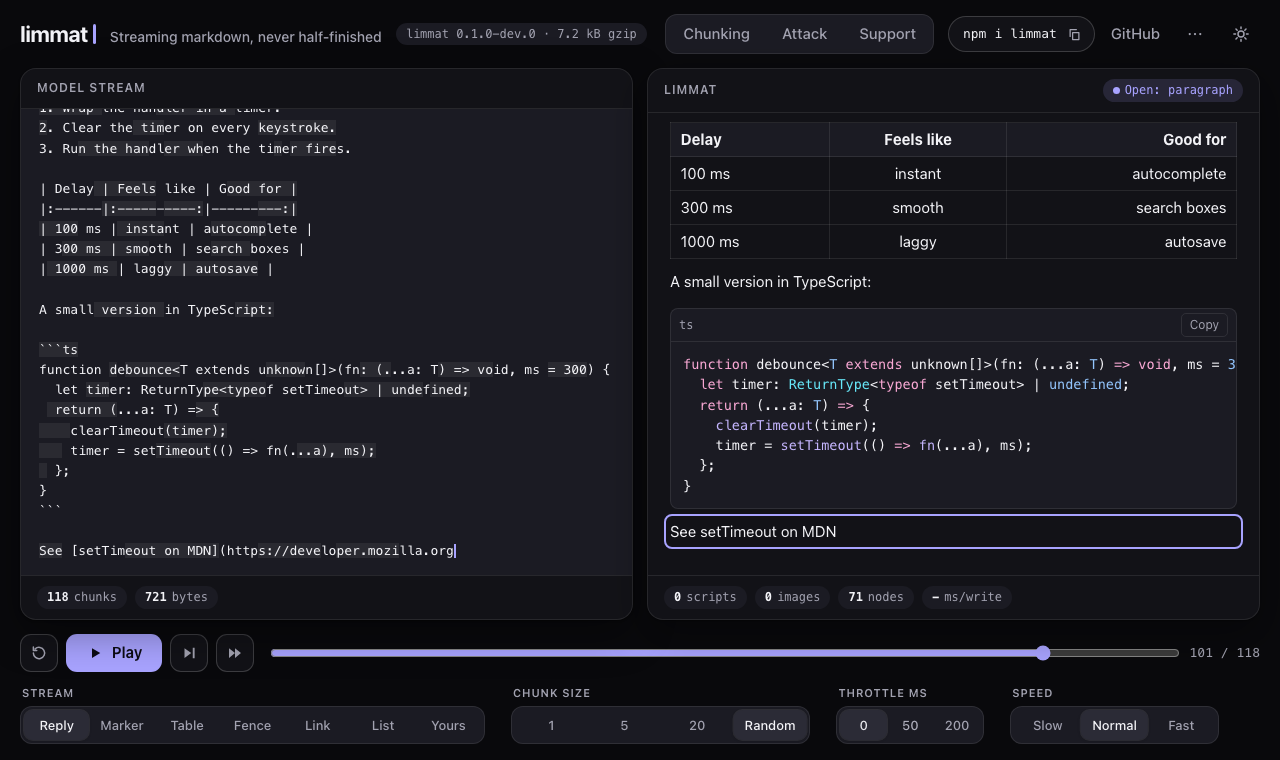
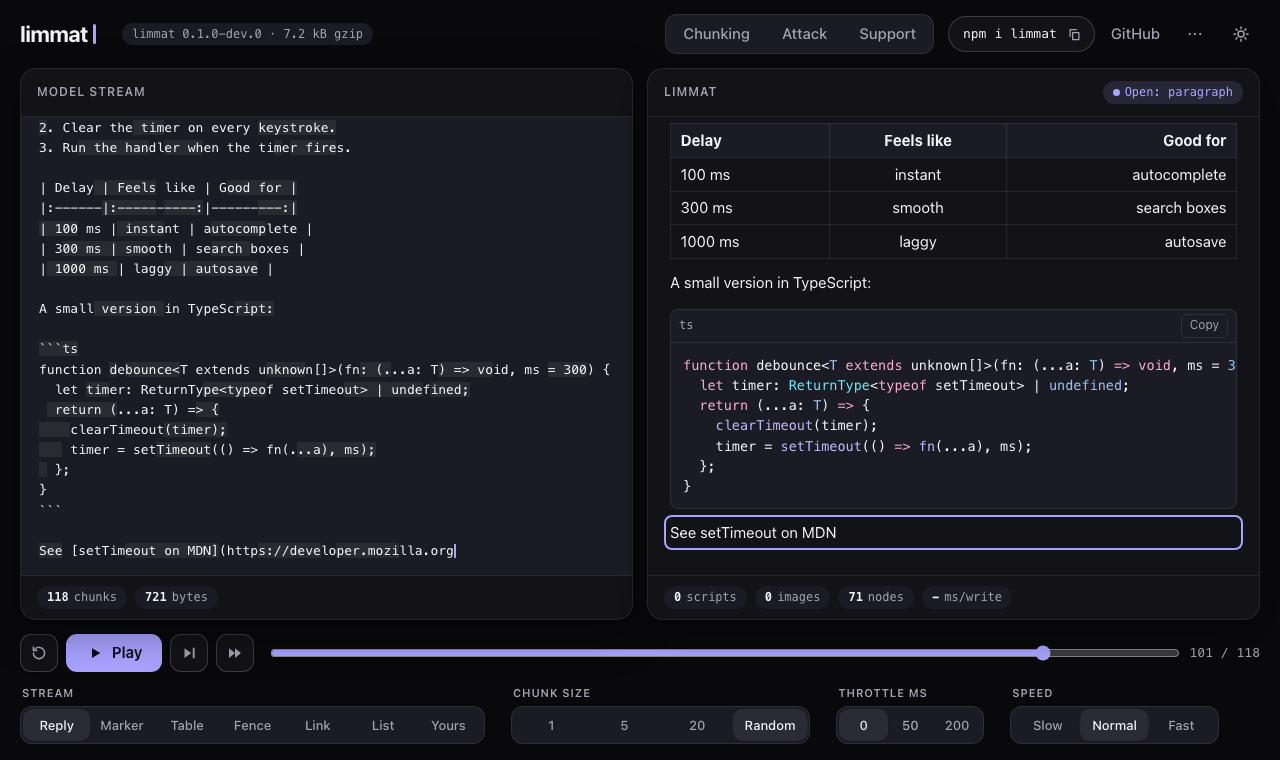
fix(demo): equal pane header heights and unscoped heading style, fresh screenshots

diff --git a/demo/css/components.css b/demo/css/components.css
@@ -370,15 +370,15 @@ input[type="range"] {
   font-size: 13px;
   text-align: right;
 }
-.pane h2,
-.panel h2 {
+.pane-head h2,
+.panel-head h2 {
   font-size: 12px;
   font-weight: 600;
   letter-spacing: 0.08em;
   text-transform: uppercase;
   color: var(--muted);
 }
-.panel h2 {
+.panel-head h2 {
   font-size: 13px;
   color: var(--fg);
 }

diff --git a/demo/css/layout.css b/demo/css/layout.css
@@ -76,6 +76,7 @@ body {
   padding: 10px 16px;
 }
 .pane-head {
+  min-height: 48px;
   border-bottom: 1px solid var(--line);
 }
 .pane-foot {
